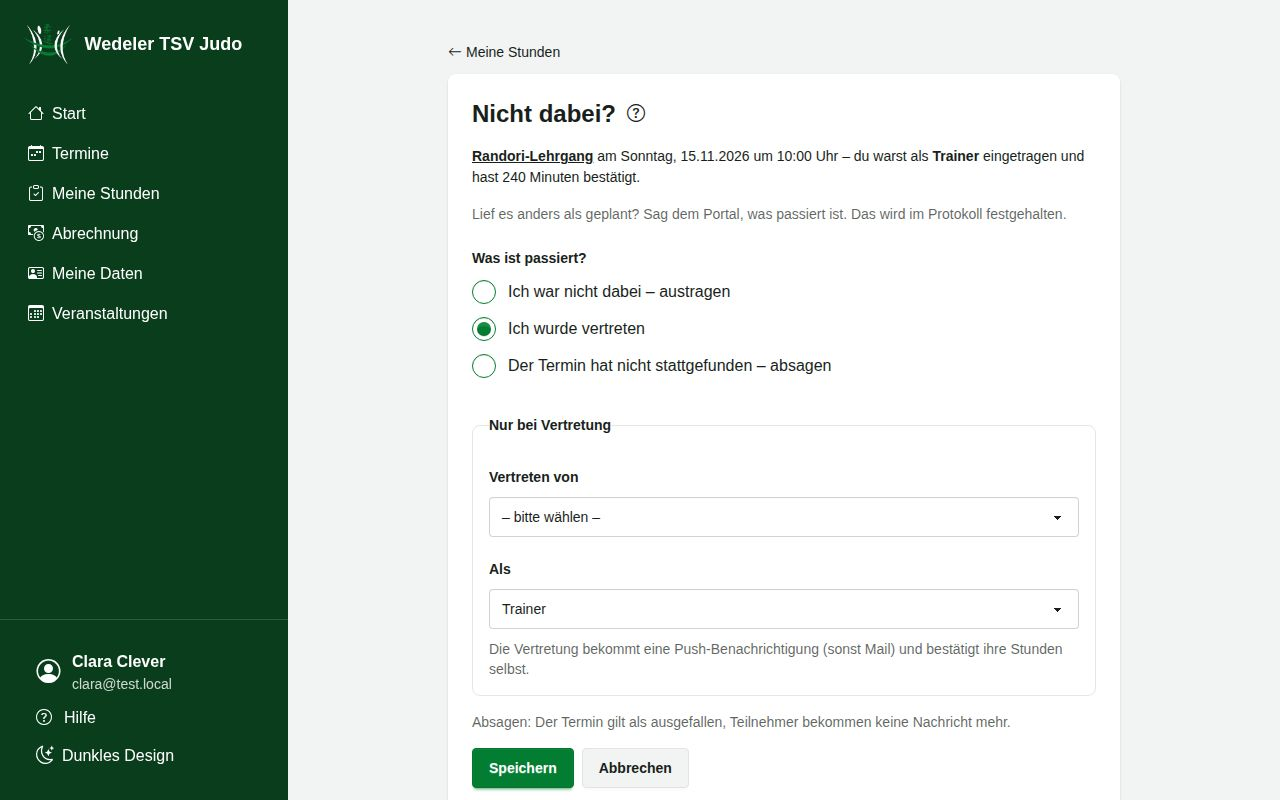
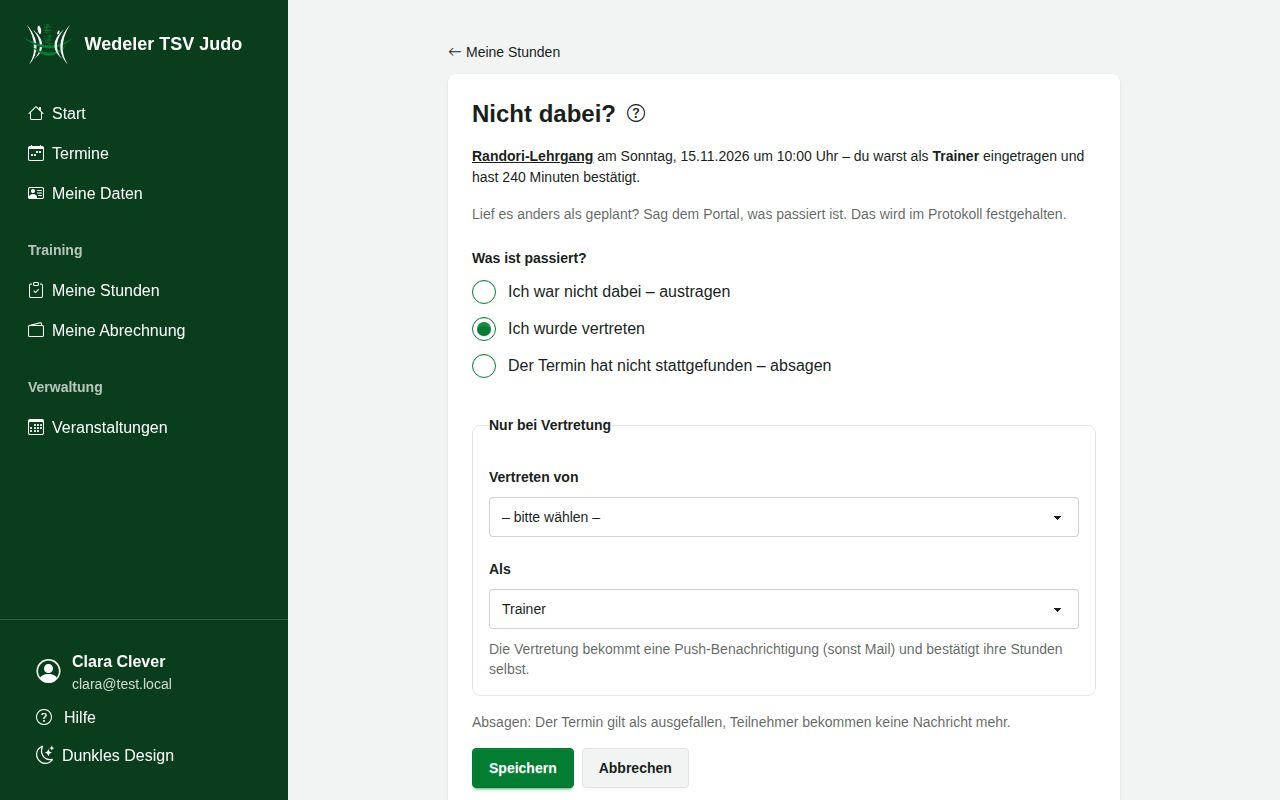
feat: Seitenleiste nach Bereichen gruppiert (Training, Verwaltung, Technik)
Oben stehen Start, Termine und Meine Daten. Darunter folgen „Training“ mit
„Meine Stunden“ und „Meine Abrechnung“ sowie „Verwaltung“ mit Mitgliedern,
Veranstaltungen, Abrechnungen, Benutzern und Protokoll. Die Abrechnung ist
geteilt: die eigene unter Training, die aller Übungsleiter unter Verwaltung.

Claude-Session: https://claude.ai/code/session_017LHgXea5AxfRcr57bsDwjB

diff --git a/portal/templates/partials/sidebar.html b/portal/templates/partials/sidebar.html
@@ -10,26 +10,31 @@
     <ul class="menu w-full gap-1 px-4 text-base [--menu-active-bg:var(--color-primary)] [--menu-active-fg:var(--color-primary-content)]">
       <li><a href="{% url 'home' %}"{% if url_name == 'home' %} class="menu-active" aria-current="page"{% endif %}><i class="bi bi-house" aria-hidden="true"></i> Start</a></li>
       <li><a href="{% url 'agenda' %}"{% if url_name in 'agenda occurrence_detail register occurrence_edit participant_add' %} class="menu-active" aria-current="page"{% endif %}><i class="bi bi-calendar-week" aria-hidden="true"></i> Termine</a></li>
-      {% if can_join_team %}
-      <li><a href="{% url 'my_hours' %}"{% if url_name == 'my_hours' %} class="menu-active" aria-current="page"{% endif %}><i class="bi bi-clipboard-check" aria-hidden="true"></i> Meine Stunden</a></li>
-      {% endif %}
-      {% if can_join_team or can_decide_claims %}
-      <li><a href="{% url 'billing_index' %}"{% if url_name in 'billing_index billing_month claim_list claim_detail rate_list rate_member' %} class="menu-active" aria-current="page"{% endif %}><i class="bi bi-cash-coin" aria-hidden="true"></i> Abrechnung</a></li>
-      {% endif %}
       {% if has_own_members %}
       <li><a href="{% url 'my_data' %}"{% if url_name in 'my_data my_member my_member_edit my_privacy' %} class="menu-active" aria-current="page"{% endif %}><i class="bi bi-person-vcard" aria-hidden="true"></i> Meine Daten</a></li>
       {% endif %}
+      {% if can_join_team %}
+      <li class="menu-title mt-4 text-neutral-content/70">Training</li>
+      <li><a href="{% url 'my_hours' %}"{% if url_name == 'my_hours' %} class="menu-active" aria-current="page"{% endif %}><i class="bi bi-clipboard-check" aria-hidden="true"></i> Meine Stunden</a></li>
+      <li><a href="{% url 'billing_index' %}"{% if url_name in 'billing_index billing_month' or url_name == 'claim_detail' and not can_decide_claims %} class="menu-active" aria-current="page"{% endif %}><i class="bi bi-wallet2" aria-hidden="true"></i> Meine Abrechnung</a></li>
+      {% endif %}
+      {% if can_manage_members or can_plan_events or can_decide_claims or can_manage_users %}
+      <li class="menu-title mt-4 text-neutral-content/70">Verwaltung</li>
       {% if can_manage_members %}
       <li><a href="{% url 'member_list' %}"{% if url_name in 'member_list member_detail member_edit member_create member_import interest_list interest_edit member_delete' %} class="menu-active" aria-current="page"{% endif %}><i class="bi bi-person-lines-fill" aria-hidden="true"></i> Mitglieder</a></li>
       {% endif %}
       {% if can_plan_events %}
       <li><a href="{% url 'event_list' %}"{% if url_name in 'event_list event_detail event_edit event_create schedule_edit schedule_create occurrence_create target_group_list target_group_edit target_group_create target_group_members role_list role_edit role_create event_type_list event_type_edit event_type_create' %} class="menu-active" aria-current="page"{% endif %}><i class="bi bi-calendar3" aria-hidden="true"></i> Veranstaltungen</a></li>
       {% endif %}
-      {% if can_manage_members %}
-      <li><a href="{% url 'audit_list' %}"{% if url_name == 'audit_list' %} class="menu-active" aria-current="page"{% endif %}><i class="bi bi-journal-text" aria-hidden="true"></i> Protokoll</a></li>
+      {% if can_decide_claims %}
+      <li><a href="{% url 'claim_list' %}"{% if url_name in 'claim_list rate_list rate_member' or url_name == 'claim_detail' %} class="menu-active" aria-current="page"{% endif %}><i class="bi bi-cash-coin" aria-hidden="true"></i> Abrechnungen</a></li>
       {% endif %}
       {% if can_manage_users %}
       <li><a href="{% url 'user_list' %}"{% if url_name in 'user_list invite edit_user invitation_link' %} class="menu-active" aria-current="page"{% endif %}><i class="bi bi-people" aria-hidden="true"></i> Benutzer</a></li>
+      {% endif %}
+      {% if can_manage_members %}
+      <li><a href="{% url 'audit_list' %}"{% if url_name == 'audit_list' %} class="menu-active" aria-current="page"{% endif %}><i class="bi bi-journal-text" aria-hidden="true"></i> Protokoll</a></li>
+      {% endif %}
       {% endif %}
       {% if user.is_staff %}
       <li class="menu-title mt-4 text-neutral-content/70">Technik</li>

diff --git a/portal/help/templates/help/chapters/stunden.html b/portal/help/templates/help/chapters/stunden.html
@@ -22,7 +22,7 @@
 
 <h2 id="abrechnung">Abrechnung einreichen</h2>
 <ol>
-  <li>Öffne <a href="{% url 'billing_index' %}">Abrechnung</a> und den Monat.</li>
+  <li>Öffne unter Training <a href="{% url 'billing_index' %}">Meine Abrechnung</a> und den Monat.</li>
   <li>Prüfe die Zeilen: Datum, Veranstaltung, Rolle, Minuten, Satz und Betrag. Nicht bestätigte Termine stehen darunter und werden nicht abgerechnet.</li>
   <li>Nach Monatsende auf <strong>… einreichen</strong> tippen.</li>
 </ol>

diff --git a/portal/help/templates/help/chapters/abrechnungen.html b/portal/help/templates/help/chapters/abrechnungen.html
@@ -1,5 +1,5 @@
 {% load help %}
-<p>Unter <a href="{% url 'billing_index' %}">Abrechnung</a> → <strong>Abrechnungen</strong> prüfst du die Monatsabrechnungen der Übungsleiter, unter <strong>Stundensätze</strong> pflegst du die Sätze.</p>
+<p>Unter Verwaltung → <a href="{% url 'claim_list' %}">Abrechnungen</a> prüfst du die Monatsabrechnungen der Übungsleiter, unter <strong>Stundensätze</strong> pflegst du die Sätze.</p>
 
 <h2 id="saetze">Stundensätze</h2>
 <ol>
